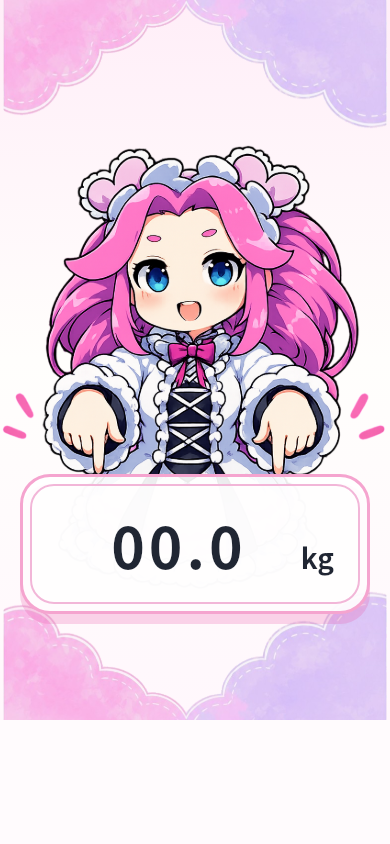
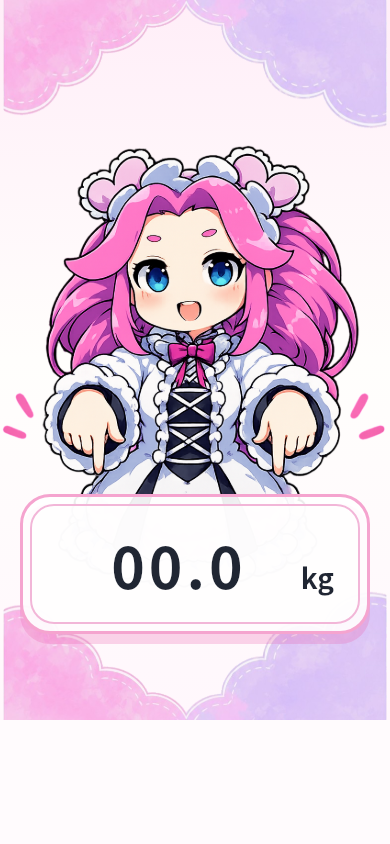
Adjust home weight input offset to 60

Changed region(s): [[0.0308, 0.5545, 0.9538, 0.7701]]

diff --git a/lib/screens/home_screen.dart b/lib/screens/home_screen.dart
@@ -170,7 +170,7 @@ class _WeightInputHero extends StatelessWidget {
                         Positioned(
                           left: 0,
                           right: 0,
-                          bottom: 80,
+                          bottom: 60,
                           child: _WeightDisplayCard(
                             controller: controller,
                             focusNode: focusNode,
